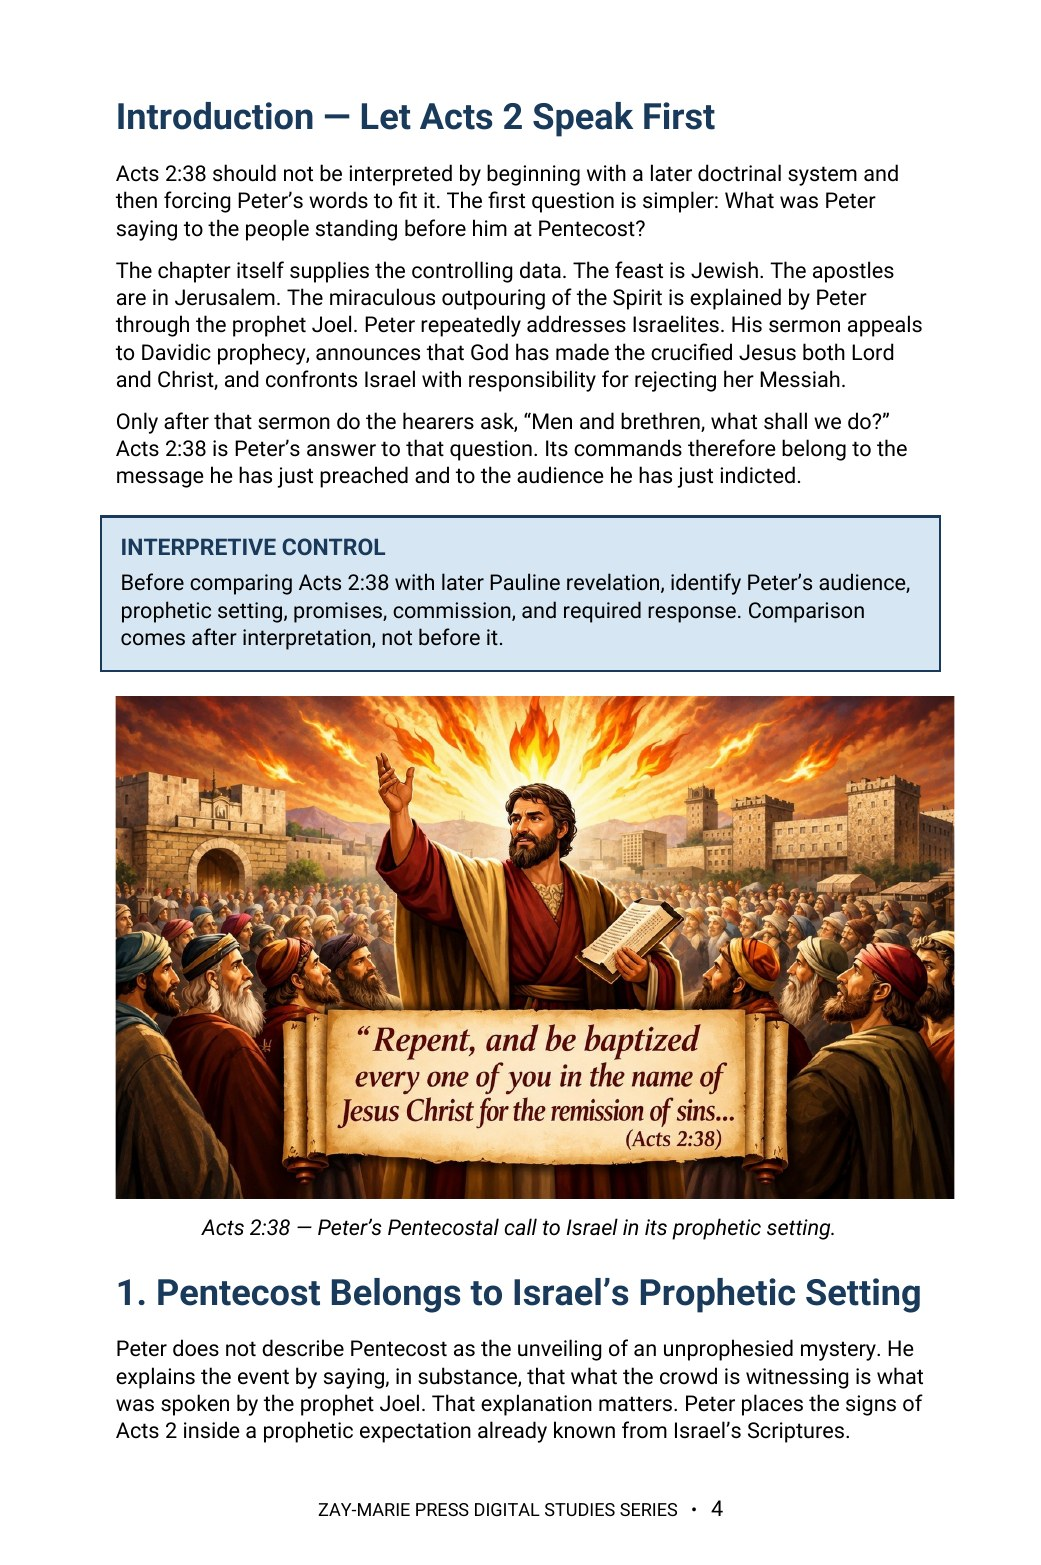
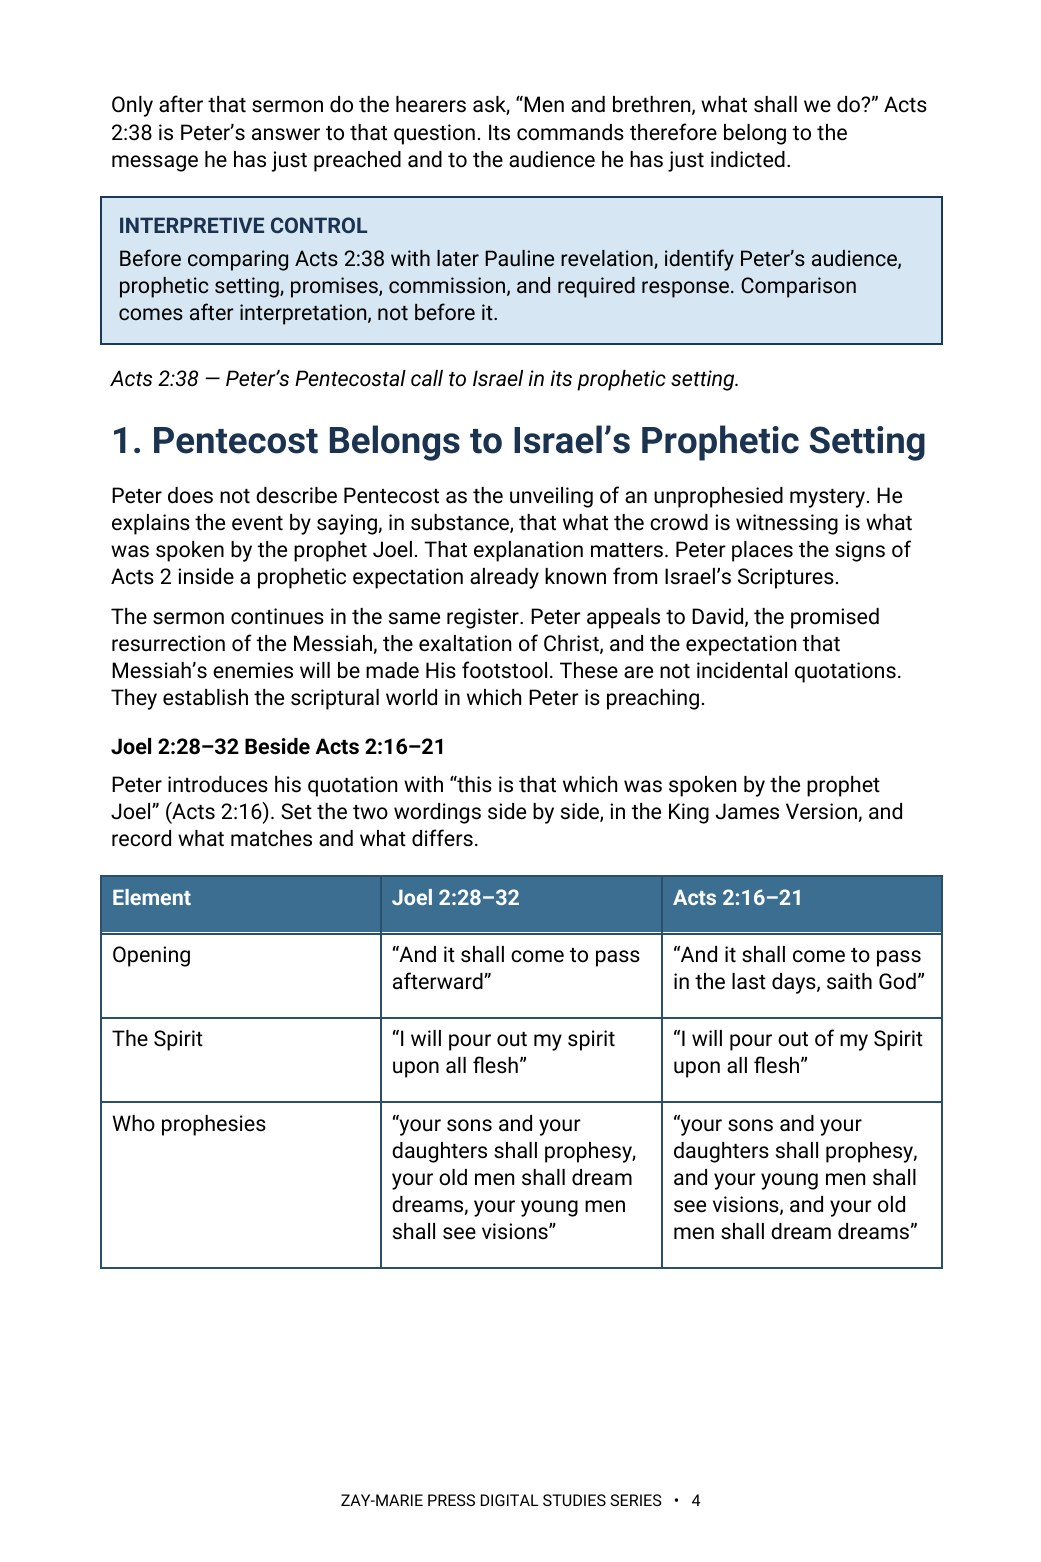
Study 20: rebuilt in Roboto 10 pt on current page (15 pages); previews 2, 3, 4 re-rendered; site.js 20:15; trackers v1.105/v1.199
Claude-Session: https://claude.ai/code/session_01HC7bs9KYP2scp4hCL6DkTp

diff --git a/study-20-understanding-acts-2-38.html b/study-20-understanding-acts-2-38.html
@@ -38,7 +38,7 @@
       <section class="detail-section soft"><div class="wrap"><div class="eyebrow">A LOOK INSIDE</div><h2>Preview the Study Before You Purchase</h2><p class="preview-instruction">Click any page to enlarge it for reading.</p><div class="preview-grid">
         <div class="preview-card"><a class="preview-image-link" data-preview-lightbox href="assets/study-20-page-2.jpg"><img src="assets/study-20-page-2.jpg" alt="Study 20 interior preview — page 2, table of contents"/></a><div class="page-no">Page 2</div><h3>Table of Contents</h3><p>See the full structure of the study, from the introduction through the final synthesis.</p></div><div class="preview-card"><a class="preview-image-link" data-preview-lightbox href="assets/study-20-page-3.jpg"><img src="assets/study-20-page-3.jpg" alt="Study 20 interior preview — page 3, What You Will Learn in This Study" /></a><div class="page-no">Page 3</div><h3>What You Will Learn in This Study</h3><p>Begin with the governing context, controls, and distinctions that guide the study of Acts 2:38.</p></div><div class="preview-card"><a class="preview-image-link" data-preview-lightbox href="assets/study-20-page-4.jpg"><img src="assets/study-20-page-4.jpg" alt="Study 20 interior preview — page 4, Introduction: Let Acts 2 Speak First" /></a><div class="page-no">Page 4</div><h3>Introduction: Let Acts 2 Speak First</h3><p>Begin with the question the study asks first and the setting it examines before any comparison is made.</p></div></section>
       <section class="detail-section"><div class="wrap"><div class="eyebrow">WHAT’S INCLUDED</div><h2>A Focused Study Built for<br />Understanding and Teaching</h2><div class="includes-grid">
-        <div class="include-item"><h3>16-Page Biblical Study</h3><p>A focused study of Peter’s Pentecostal answer and its prophetic setting.</p></div>
+        <div class="include-item"><h3>15-Page Biblical Study</h3><p>A focused study of Peter’s Pentecostal answer and its prophetic setting.</p></div>
         <div class="include-item"><h3>Eleven Teaching Sections</h3><p>Follow Acts 2:38 from Pentecost through Peter’s commands and Pauline comparison.</p></div>
         <div class="include-item"><h3>Acts 3 Comparison</h3><p>Read Peter’s companion call to repentance, refreshing, and prophetic restoration.</p></div>
         <div class="include-item"><h3>Water and Spirit Table</h3><p>Compare Peter’s administered water baptism with Spirit incorporation into one Body.</p></div>
@@ -47,7 +47,7 @@
         <div class="include-item"><h3>Scripture-Tracing Exercise</h3><p>Classify passages by speaker, audience, command or promise, and programmatic marker.</p></div>
         <div class="include-item"><h3>Teaching and Discussion Tools</h3><p>Use the review questions, teaching outline, and guided further study for personal or group use.</p></div>
       </div></div></section>
-      <section class="detail-section cream"><div class="wrap"><div class="final-buy"><div><div class="eyebrow">STUDY 20 · DIGITAL STUDY</div><h2>Understanding Acts 2:38</h2><p>16-page digital PDF · For personal use</p></div><div class="final-offer"><div class="detail-price">$5.99</div><span class="detail-button pending" aria-disabled="true">Checkout Coming Soon</span></div></div><a class="back-link" href="digital-studies.html">← Back to All Digital Studies</a></div></section>
+      <section class="detail-section cream"><div class="wrap"><div class="final-buy"><div><div class="eyebrow">STUDY 20 · DIGITAL STUDY</div><h2>Understanding Acts 2:38</h2><p>15-page digital PDF · For personal use</p></div><div class="final-offer"><div class="detail-price">$5.99</div><span class="detail-button pending" aria-disabled="true">Checkout Coming Soon</span></div></div><a class="back-link" href="digital-studies.html">← Back to All Digital Studies</a></div></section>
     <section class="study-method-course-bridge"><div class="wrap"><div class="study-method-course-panel"><div><div class="eyebrow">BUILD THE INTERPRETIVE METHOD</div><h2>Want More Than a Focused Study?</h2><p>Digital Studies examine particular biblical subjects and difficult passages. The 40-lesson Biblical Hermeneutics course teaches a complete, repeatable method for establishing meaning in context, determining proper assignment, and making responsible application.</p></div><a class="btn btn-primary" href="biblical-hermeneutics-course.html">BIBLICAL HERMENEUTICS COURSE</a></div></div></section></main><footer class="site-footer"><div class="wrap footer-grid"><div class="footer-about"><h3>Zay-Marie Press</h3><p class="footer-tagline"><em>Where the Bible Means What It Says.</em></p><p>Zay-Marie Press is a Christian theological publisher dedicated to producing doctrinally precise, carefully structured biblical resources that equip pastors, teachers, and serious students with clarity, depth, and Scripture-anchored truth.</p><p><a href="https://zaymariepress.com">zaymariepress.com</a><br/><a href="mailto:info@zaymariepress.com">info@zaymariepress.com</a></p></div><div class="footer-column"><h3>Explore</h3><div class="footer-links-stacked"><a href="books.html">Books</a><br/><a href="series.html">Series</a><br/><a href="biblical-hermeneutics-course.html">Course</a><br/><a href="digital-studies.html">Digital Studies</a><br/><a href="resources.html">Resources</a><br/><a href="bible-book-summaries.html">Bible Book Summaries</a><br/><a href="doctrinal-packets.html">Doctrinal Packets</a><br/><a href="historical-drift.html">Historical Drift</a><br/><a href="about.html">About</a><br/><a href="contact.html">Contact</a></div></div><div class="footer-column"><h3>Reader Support</h3><div class="footer-links-stacked"><a href="reader-support.html#faq">FAQ</a><br/><a href="reader-support.html#shipping-returns">Shipping &amp; Returns</a><br/><a href="reader-support.html#digital-downloads">Digital Downloads</a><br/><a href="reader-support.html#contact-support">Contact Support</a></div></div><div class="footer-column"><h3>Acts Overlap</h3><p><strong>Acts Overlap Theology Series</strong></p><p><em>Two Distinct Streams. One Overlap.</em></p><p><a href="series.html">Series Overview</a></p></div></div><div class="wrap footer-bottom">© 2026 Zay-Marie Press. All rights reserved.</div></footer>
     <div class="preview-lightbox" id="preview-lightbox" role="dialog" aria-modal="true" aria-label="Expanded study preview"><button class="preview-lightbox-close" type="button" aria-label="Close preview">×</button><img id="preview-lightbox-image" alt="" /></div>
     <script>

diff --git a/site.js b/site.js
@@ -62,7 +62,7 @@ const resourceModal=document.querySelector('#resource-modal'), resourceModalTitl
 if(resourceModal&&resourceModalTriggers.length){const closeResourceModal=()=>{resourceModal.hidden=true;document.body.classList.remove('resource-modal-open');lastResourceTrigger?.focus();};resourceModalTriggers.forEach(trigger=>trigger.addEventListener('click',()=>{lastResourceTrigger=trigger;if(resourceModalTitle)resourceModalTitle.textContent=trigger.dataset.title||'Resource';if(resourceModalDescription)resourceModalDescription.textContent=trigger.dataset.description||'';if(resourceModalLink){resourceModalLink.href=trigger.dataset.href||'#';resourceModalLink.textContent=trigger.dataset.linkText||'OPEN RESOURCE';}resourceModal.hidden=false;document.body.classList.add('resource-modal-open');resourceModalClose?.focus();}));resourceModalClose?.addEventListener('click',closeResourceModal);resourceModal.addEventListener('click',e=>{if(e.target===resourceModal)closeResourceModal();});document.addEventListener('keydown',e=>{if(e.key==='Escape'&&!resourceModal.hidden)closeResourceModal();});}
 
 /* Display the verified final-PDF page count at the primary purchase decision point. */
-const digitalStudyPageCounts={1:17,2:19,3:16,4:17,5:15,6:15,7:14,8:13,9:15,10:20,11:15,12:15,13:18,14:15,15:15,16:16,17:17,18:18,19:16,20:16,21:17,22:16,23:14,24:16,25:17,26:16,27:16,28:16,29:19,30:17,31:18,32:19,33:18,34:16,35:16,36:16,37:16,38:16,39:16,40:16,41:16,42:17,43:17,44:19,45:19,46:20,47:19,48:18,49:20,50:19,51:20,52:19,53:19,54:17,55:20,56:20,57:20,58:19,59:20,60:15,61:16,62:18,63:17,64:17,65:16,66:16,67:17,68:16,69:17,70:17,71:16};
+const digitalStudyPageCounts={1:17,2:19,3:16,4:17,5:15,6:15,7:14,8:13,9:15,10:20,11:15,12:15,13:18,14:15,15:15,16:16,17:17,18:18,19:16,20:15,21:17,22:16,23:14,24:16,25:17,26:16,27:16,28:16,29:19,30:17,31:18,32:19,33:18,34:16,35:16,36:16,37:16,38:16,39:16,40:16,41:16,42:17,43:17,44:19,45:19,46:20,47:19,48:18,49:20,50:19,51:20,52:19,53:19,54:17,55:20,56:20,57:20,58:19,59:20,60:15,61:16,62:18,63:17,64:17,65:16,66:16,67:17,68:16,69:17,70:17,71:16};
 const digitalStudyMatch=window.location.pathname.match(/\/study-(\d+)-/i);
 const digitalStudyFormat=document.querySelector('.detail-hero .detail-format');
 if(digitalStudyMatch&&digitalStudyFormat){const studyNumber=Number(digitalStudyMatch[1]),pageCount=digitalStudyPageCounts[studyNumber];if(pageCount)digitalStudyFormat.textContent=`Digital PDF · ${pageCount} Pages`;}

diff --git a/CLAUDE.md b/CLAUDE.md
@@ -23,7 +23,7 @@ These are kept in the repo at `controlling-documents/` and are the current versi
 - As of v1.50 (publisher directive, 2026-10-03), the **What You Will Learn in This Study** section is always bulleted, never set as running paragraphs, written into this file in the same pass (Master Standard Section 3 item 4, Section 6 structure line, Section 22): a list of bullet points, each describing one process, textual marker or interpretive discipline the reader will practice (Section 17 still governs what they may say); at most one short lead-in line may stand above the bullets (for example, “By the end of this study, you should be able to:”); the Study Goal callout and the Study Outline keep their own forms. It governs every new study and every study rebuilt or retrofitted from now on; earlier studies take it when reopened or when the publisher directs. In every study check (Step 1), report whether the section is bulleted. First applied to Study 43.
 **`controlling-documents/Digital_Studies_Relationship_Map_v1.39.md`** — records each study's distinct subject, its related studies, the eight priced six-study collections, the Paul's Missionary Journeys cross-reference map, and the five primary catalog categories (currently version 1.39, covers Studies 1–71; update it as new studies publish, bump the version number, rename the file to match, and log the change in its own version-history table — mirroring the Master Standard's `_vX.Y` filename convention). Check a proposed topic against it before recommending or writing a new study. (2026-09-28: the file was missing from this repo despite this note referencing it; replaced from the publisher's copy and bumped v1.15→v1.25 in the same pass. If this note ever again points to a version not present under `controlling-documents/`, ask the publisher for a copy rather than proceeding without the check.)
 - **`controlling-documents/Digital_Studies_Category_Standard_v1.1.md`** — FINAL and binding (publisher, 2026-10-01): the rules for the five primary catalog categories (Foundations, Israel & Prophecy, Body of Christ, Passages, Doctrinal Themes), the ordered decision procedure for new studies, the precedents, all 71 fixed assignments, and the cover-label form for each category. Read it before placing any card or cover label. Do not ask the publisher where a study belongs; apply the procedure and state the result. Only the publisher changes a ruling; then bump this Standard's version and filename, re-letter the cover, and update the Relationship Map.
-- **`controlling-documents/Doctrinal_Upgrade_Retrofit_Plan_v1.104.md`** — working tracker for retrofitting Studies 1–59 to the 2026-10-02 doctrinal upgrade (Framework/PAM v1.1, Master Standard v1.40, Rules 7–17): withdrawn-wording search keys, impact tiers, waves and the per-study method. Read it before continuing the retrofit in any session; update status, bump the version and rename the file as work proceeds.
+- **`controlling-documents/Doctrinal_Upgrade_Retrofit_Plan_v1.105.md`** — working tracker for retrofitting Studies 1–59 to the 2026-10-02 doctrinal upgrade (Framework/PAM v1.1, Master Standard v1.40, Rules 7–17): withdrawn-wording search keys, impact tiers, waves and the per-study method. Read it before continuing the retrofit in any session; update status, bump the version and rename the file as work proceeds.
 - **`controlling-documents/Doctrinal_Packet_Standard_v0.3.md`** — Doctrinal Packet Standard (DRAFT; §7 approved). Governs the separate Doctrinal Packets product strand (5-page interpretive PDFs per Bible book — a print-friendly cover as page 1 plus 4 content pages, $2.99, KJV, pilot: Genesis, live at `packet-genesis.html`, hub `doctrinal-packets.html`; site pages say "5 Pages", cover styles live in `packets.css`, Old Testament blue and New Testament soft pale green, hub listed in Bible order). **Preview rule (publisher directive, 2026-09-29, packets only):** previews show about one page's worth in two cropped views (top of page 1 through the anchor texts; the chart section) — never the exegesis, architecture, Mystery contrast, logic chain, outline, or closing. Master Standard §16/§17 still govern Digital Studies. Bump the version and rename the file as the Standard is finalized.
 - **`controlling-documents/Preview_Page_Spoiler_Retrofit_Audit_v1.4.md`** — working tracker for the Studies 1–60 preview-page conclusion-spoiler retrofit (see the section below). Read it before continuing that audit in any session; update its status fields and changelog, bump the version, and rename the file to match as the audit proceeds — same `_vX.Y` convention as the other controlling documents. As of v1.1, the website-side half was DONE: all 60 studies' "What You'll Study" text was judged against the rule (methodology documented in the file) and 22 points across 11 studies were rewritten and pushed; an unrelated Study 22 content bug (Study 21's content had leaked into it) was also found and fixed. As of v1.2, the publisher supplied Studies 1–60's interior production PDFs and the interior-PDF half was also surveyed (read-only): 10 studies (37, 41, 45, 47, 48, 49, 51, 52, 53, 54) were found to have at least one interior "What You Will Learn" violation, 50 studies were confirmed compliant, and the orphaned `assets/study-45-sanctification-under-grace.docx` (removed from the repo per the publisher in v1.0) was confirmed word-for-word identical to Study 45's actual production interior PDF content. As of v1.3, the publisher supplied editable DOCX sources for all 10 violating studies; all 15 violating points were rewritten and approved, delivered as corrected final PDFs, and — along the way — a second defect was found and fixed (Studies 47 and 48's source DOCX still had an unintegrated cover placeholder despite both being long-published live with real covers; fixed by inserting the existing approved cover art). The website's "What You Will Learn" preview image (`study-NN-page-3.jpg`) was regenerated from the corrected content for all 10 studies and pushed to `main` (commit `cea1859`), verified against a fresh clone. **The website side of this audit is now fully compliant for all 60 studies.** Outstanding: the publisher's purchasable interior PDF files themselves have corrected versions delivered, but distribution to existing purchasers was decided by the publisher on 2026-09-29: silent swap of the files behind the existing downloads, no reissue notice (recorded in the v1.4 changelog entry; the product files are not in this repo).
 

diff --git a/controlling-documents/Doctrinal_Upgrade_Retrofit_Plan_v1.105.md b/controlling-documents/Doctrinal_Upgrade_Retrofit_Plan_v1.105.md
@@ -197,3 +197,4 @@ Working tracker for correcting published studies to the Framework/PAM v1.1, Mast
 - v1.102 (2026-10-04): Study 13 rebuilt in Roboto at 10 pt on the current page, 18 pages (was 19 on the old 432×648 page). WYWL opening paragraph removed, lead-in added, seven bullets reworded to process lines; 'framework' wording removed (2); four boundaries, triad and 'Identity is fixed by divine program, not by metaphor' added in section 6; 'Salvation is come unto the Gentiles' line added; overlap and Rule 17 sentences added in section 9; Acts 28 national suspension with no chronology; Teaching Outline numbered. Previews 2, 3 and 5 re-rendered at 1041×1562; site.js 13:18; study page 18 pages. Study 9's Romans 11 callout left as drafted.
 - v1.103 (2026-10-04): Study 17 rebuilt in Roboto at 10 pt on the current page, 17 pages (was 18 on the old 432×648 page). WYWL opening paragraph removed, lead-in added, eight bullets reworded to process lines; 'framework' wording removed (2); Galatians 3 sentence added to section 7; overlap, Rule 17 and synagogue short-form sentences added to section 9; Acts 28 national suspension with no chronology (callout, outline, further study); Teaching Outline numbered; seven content tables kept. Previews 2, 3 and 5 re-rendered at 1041×1562 (page 5 still Genesis 12:1–3 phrase by phrase); site.js 17:17; study page 17 pages.
 - v1.104 (2026-10-04): Study 19 rebuilt in Roboto at 10 pt on the current page, 16 pages (unchanged count; old 432×648 page retired). WYWL opening paragraph removed and lead-in added (eight bullets already process lines, kept); standing Cornelius sentence completed in section 2; overlap and Rule 17 sentences added to section 8; Teaching Outline numbered; six content tables kept; no internal terms found. Previews 2, 3 and 4 re-rendered at 1041×1562; site.js 19:16 unchanged; study page 16 pages.
+- v1.105 (2026-10-04): Study 20 rebuilt in Roboto at 10 pt on the current page, 15 pages (was 16 on the old 432×648 page). WYWL opening paragraph removed and lead-in added (eight bullets already process lines, kept); 'framework' wording removed (4); Rule 19 conforming sentence in section 6 ('The ground of forgiveness is God’s grace, not the rite, and what Peter’s hearers are to believe is what he has just declared: that God has made this Jesus both Lord and Christ (Acts 2:36).') replacing 'The saving work is God’s work in Christ'; Acts 28 national suspension with no chronology; overlap, Rule 17 and Rule 11 sentences added to section 10; Teaching Outline numbered; seven content tables kept; Cornelius sentence not added (Acts 10:44–48 appears only as a tracing passage). Previews 2, 3 and 4 re-rendered at 1041×1562; site.js 20:15; study page 15 pages.

diff --git a/controlling-documents/Digital_Studies_PAM_Audit_v1.199.md b/controlling-documents/Digital_Studies_PAM_Audit_v1.199.md
@@ -428,3 +428,4 @@ Study 15 PDF not yet supplied. Typography: none of Studies 2, 3, 6, 8 is in EB G
 - v1.196 (2026-10-04): Study 13 rebuilt in Roboto at 10 pt on the current page, 18 pages; WYWL bullets reworded to process lines; four boundaries and triad added; overlap and Rule 17 sentences added; Acts 28 national suspension, no chronology; Teaching Outline numbered (see Retrofit Plan v1.102).
 - v1.197 (2026-10-04): Study 17 rebuilt in Roboto at 10 pt on the current page, 17 pages; WYWL bullets reworded to process lines; Galatians 3, overlap, Rule 17 and synagogue sentences added; Acts 28 national suspension, no chronology; Teaching Outline numbered (see Retrofit Plan v1.103).
 - v1.198 (2026-10-04): Study 19 rebuilt in Roboto at 10 pt on the current page, 16 pages; WYWL lead-in added; Cornelius, overlap and Rule 17 sentences added; Teaching Outline numbered (see Retrofit Plan v1.104).
+- v1.199 (2026-10-04): Study 20 rebuilt in Roboto at 10 pt on the current page, 15 pages; WYWL lead-in added; Rule 19 forgiveness sentence conformed; Acts 28 national suspension, no chronology; overlap, Rule 17 and Rule 11 sentences added; Teaching Outline numbered (see Retrofit Plan v1.105).
